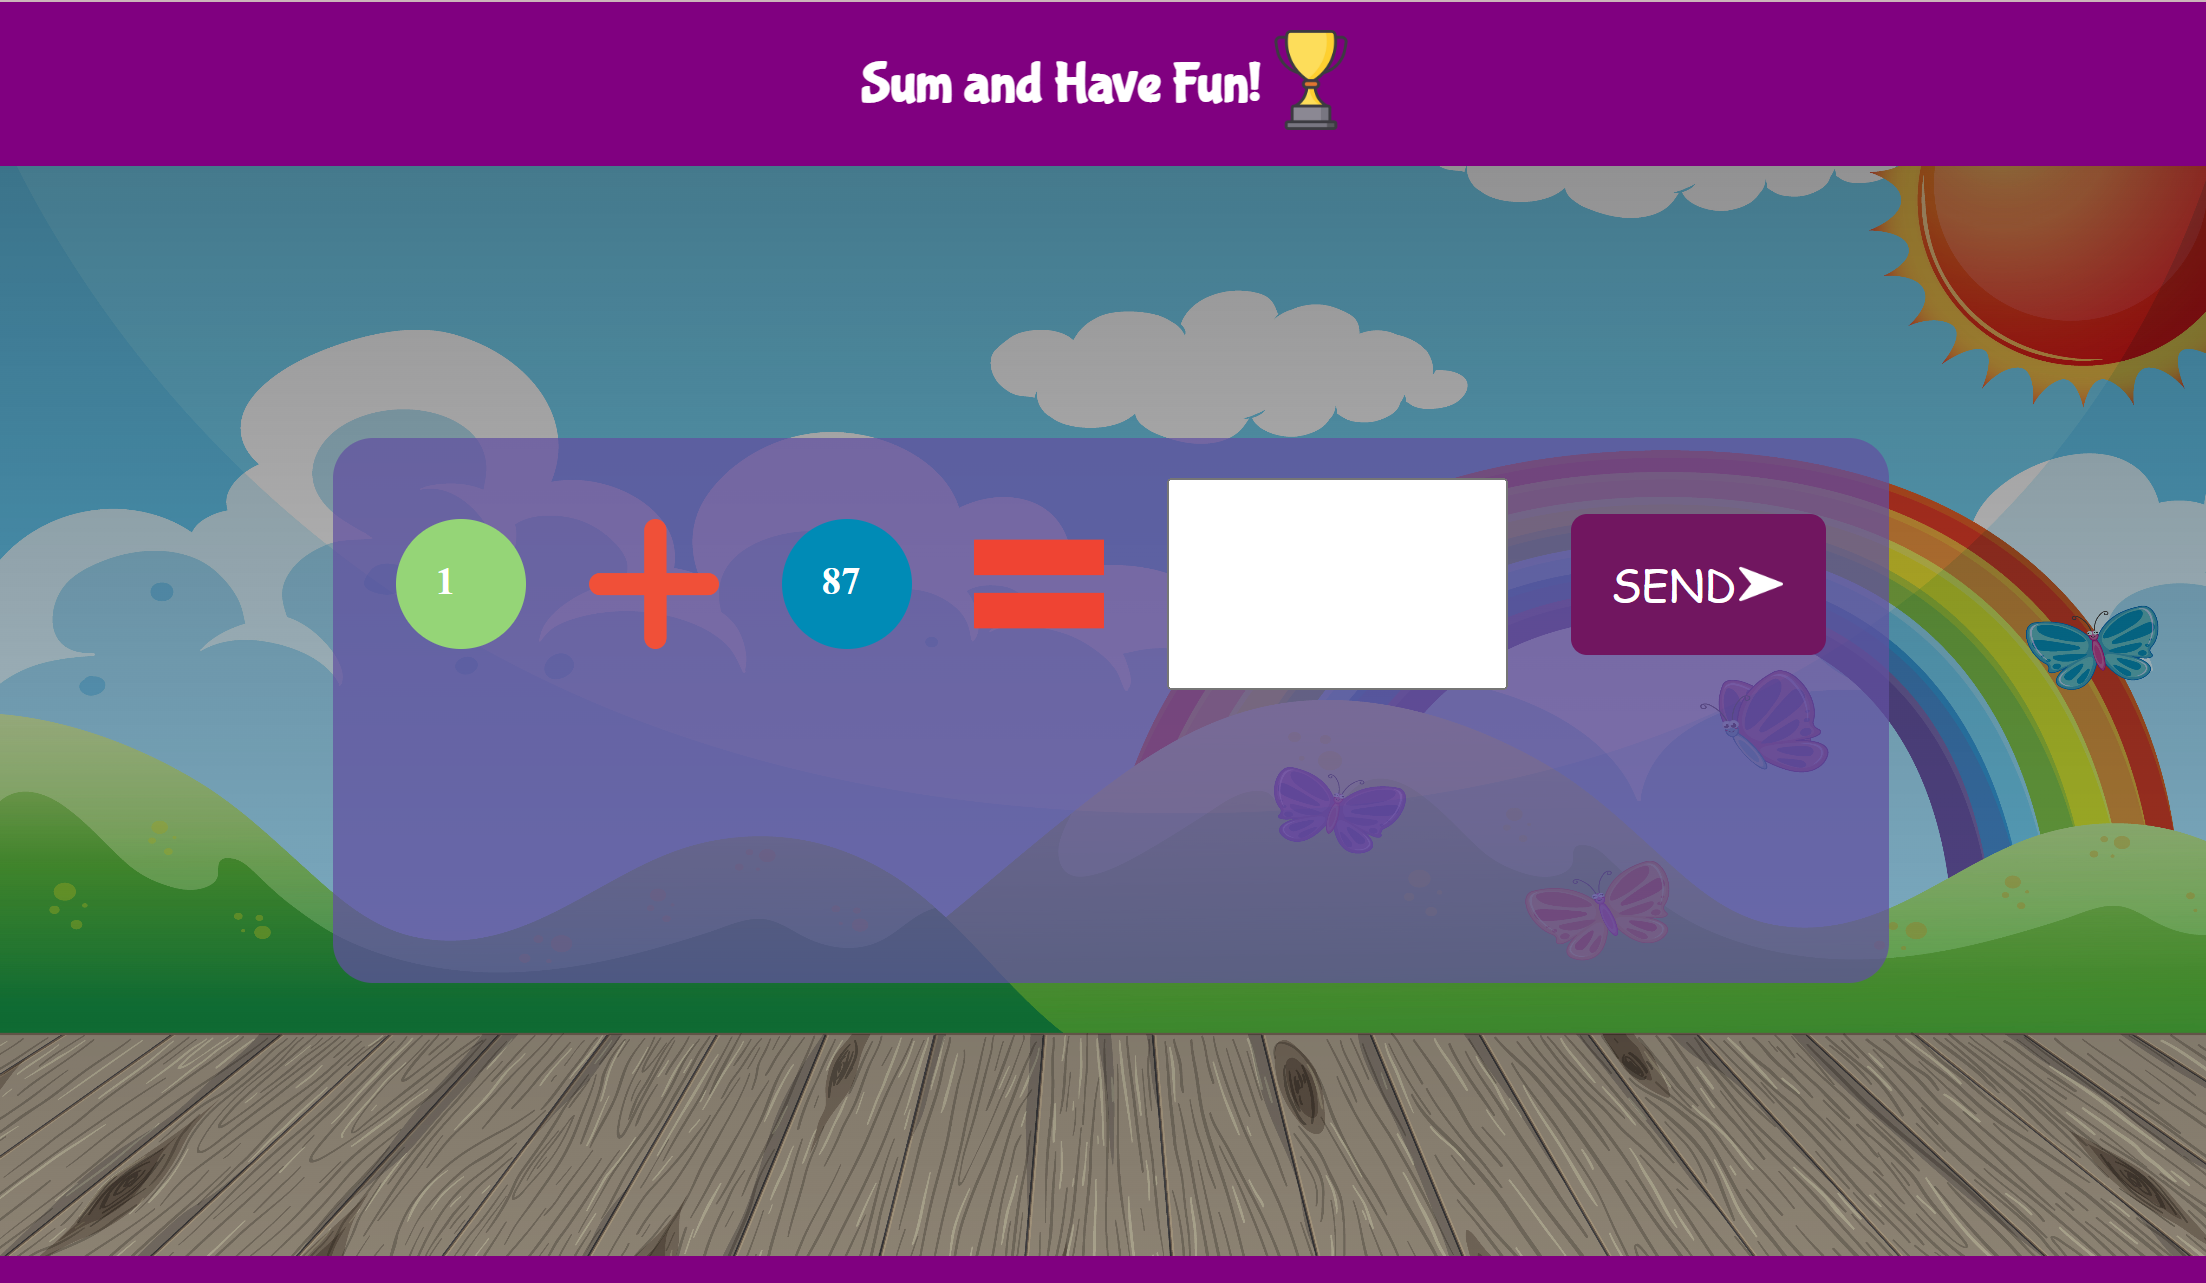
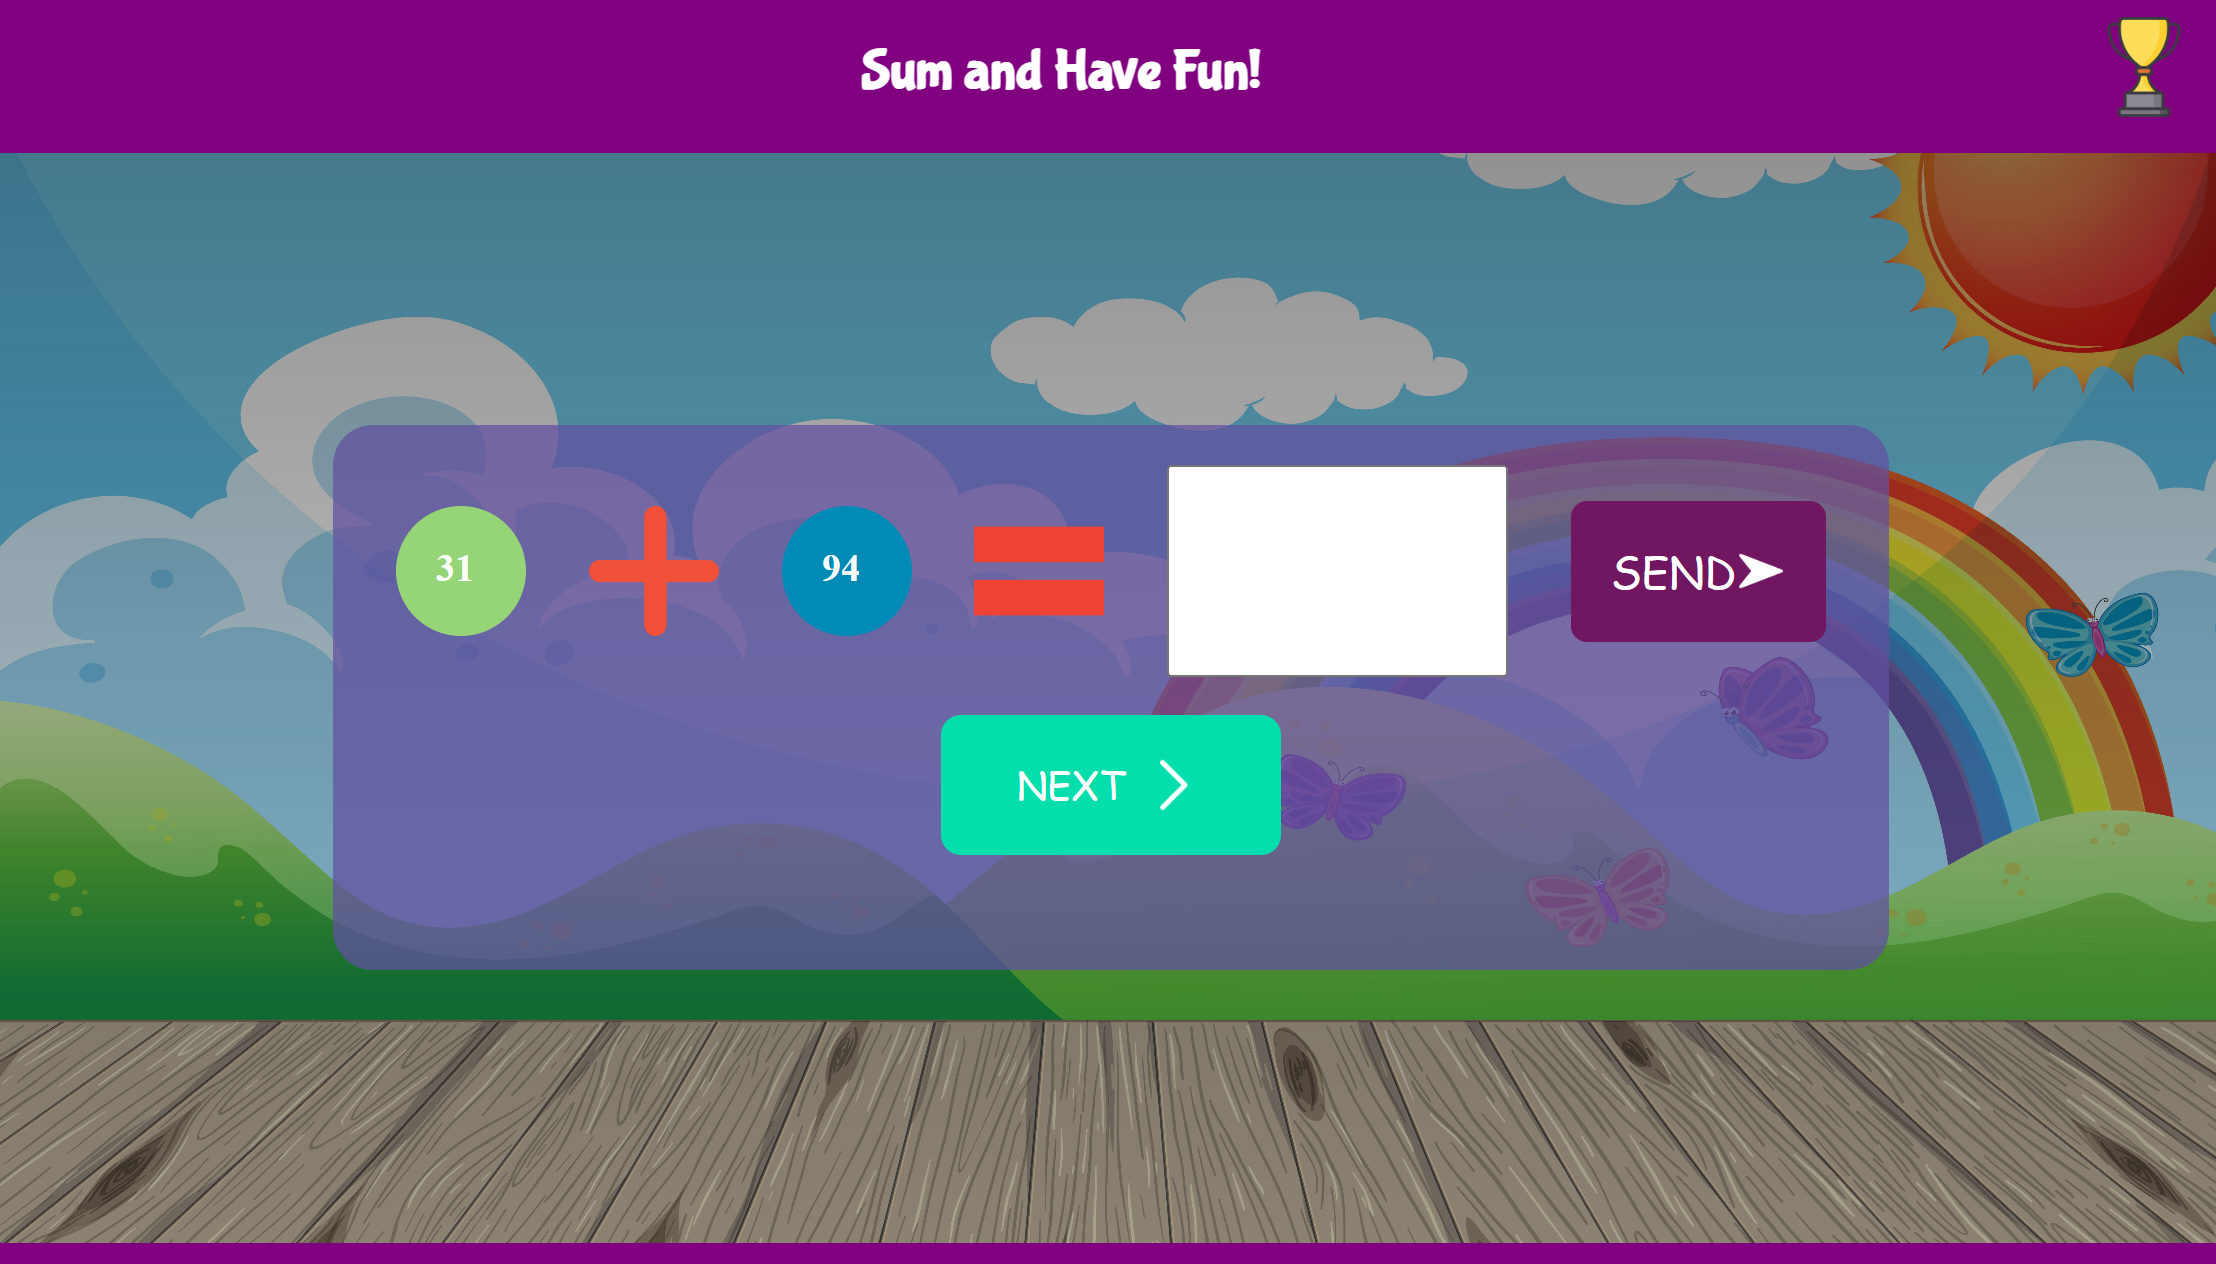
added functionality for going to next question

diff --git a/public/index.html b/public/index.html
@@ -1,22 +1,20 @@
 <!DOCTYPE html>
 <html lang="en">
-  <head>
-    <meta charset="utf-8" />
-    <link rel="icon" href="%PUBLIC_URL%/favicon.ico" />
-    <meta name="viewport" content="width=device-width, initial-scale=1" />
-    <meta name="theme-color" content="#000000" />
-    <meta
-      name="description"
-      content="Web site created using create-react-app"
-    />
-    <link href='https://fonts.googleapis.com/css?family=Bubblegum Sans' rel='stylesheet'>
-    <link rel="apple-touch-icon" href="%PUBLIC_URL%/logo192.png" />
- 
-    <title>Sum and Fun!</title>
-  </head>
-  <body>
-    <noscript>You need to enable JavaScript to run this app.</noscript>
-    <div id="root"></div>
 
-  </body>
+<head>
+  <meta charset="utf-8" />
+  <link rel="icon" href="%PUBLIC_URL%/favicon.png" />
+  <meta name="viewport" content="width=device-width, initial-scale=1" />
+  <meta name="theme-color" content="#000000" />
+  <meta name="description" content="Web site created using create-react-app" />
+  <link href="https://fonts.googleapis.com/css?family=Bubblegum Sans" rel="stylesheet" />
+
+  <title>Sum and Fun!</title>
+</head>
+
+<body>
+  <noscript>You need to enable JavaScript to run this app.</noscript>
+  <div id="root"></div>
+</body>
+
 </html>

diff --git a/src/components/form/Form.js b/src/components/form/Form.js
@@ -4,6 +4,7 @@ import "./form.css";
 import plus from "../../assets/images/plus.png";
 import equal from "../../assets/images/equal.png";
 import submit from "../../assets/images/submit.png";
+import next from "../../assets/images/next.png";
 const Form = () => {
   const [number1, setNumber1] = useState(Math.floor(Math.random() * 50));
   const [number2, setNumber2] = useState(Math.floor(Math.random() * 100));
@@ -41,6 +42,14 @@ const Form = () => {
       }
     }
   };
+
+  const restartGame = () => {
+    setNumber1(Math.floor(Math.random() * 50));
+    setNumber2(Math.floor(Math.random() * 100));
+    setCorrect("");
+    setAnswer("");
+    setFeedback("");
+  };
   return (
     <div className="form_outer_container">
       <section className={`form_container ${correct}`}>
@@ -57,6 +66,10 @@ const Form = () => {
           </button>
         </form>
         <h3>{feedback && feedback}</h3>
+        <button className="comic restartButton" onClick={restartGame}>
+          NEXT
+          <img width="30px" src={next} alt=" restart icon" />
+        </button>
       </section>
     </div>
   );

diff --git a/src/components/form/form.css b/src/components/form/form.css
@@ -2,7 +2,7 @@
   background-color: #6150a0ba;
   width: 70%;
   border-radius: 20px;
-  height: 50%;
+  padding: 30px;
 }
 
 .Correct {
@@ -82,4 +82,55 @@ form {
 
 .number2 {
   background-color: #008bb6;
+}
+
+.restartButton {
+  border: none;
+  padding: 20px;
+  border-radius: 10px;
+  margin: auto;
+  width: 170px;
+  background-color: #04dead;
+  display: flex;
+  color: white;
+  align-items: center;
+  cursor: pointer;
+  justify-content: center;
+  font-size: larger;
+}
+
+.restartButton:hover {
+  background-color: #4bccb0c3;
+}
+
+.restartButton img {
+  margin-left: 10px;
+}
+
+@media screen and (max-width: 768px) {
+  .form_outer_container {
+    display: flex;
+    justify-content: center;
+    background-position: 75%;
+  }
+
+  form {
+    display: flex;
+    flex-wrap: wrap;
+  }
+
+  .form_container {
+    width: 90%;
+    height: 100% !important;
+  }
+
+  .form_container input {
+    height: 40px;
+    margin-top: 10px;
+  }
+
+  .sendButton {
+    margin-top: 10px;
+    padding-bottom: 20px;
+  }
 }

diff --git a/src/components/landingPage/landing.css b/src/components/landingPage/landing.css
@@ -62,3 +62,9 @@
     min-height: 85vh;
   }
 }
+
+@media screen and (max-width: 768px) {
+  .landing_outer_container {
+    min-height: 85vh;
+  }
+}

diff --git a/planning.md b/planning.md
@@ -1,44 +1,59 @@
 
 # Sum and Have Fun!
 
+
+## Summary about components and Application organization
+<p>Form component: gets input from the user, makes the API call, changes CSS classes after comparing Api data and user-entered answer.</p>
+
+<p>App: organizes components and routes</p>
+
+<p>Header and Footer: Add style and make accessibility on the App better for screen readers. It also improves user experience by providing links for navigating between pages.</p>
+
+<p>Landing Page: Displays buttons for entering the game or viewing high scores. (Score is hard coded, for now, see enhancements section.) </p>
+
+### CSS 
+
+<p>I usually like using CSS modules on bigger applications. With this app, however, I am utilizing vanilla CSS: descriptive names for classes and IDs and keeping the files separated for each component. It is a lot easier to go through 30 lines of CSS to find a problem than go through 400 lines of code.</p>
+
+### Planning
 <ul> 
 
-<li>I started on cleaning up the app and deleting unecessary files.</li>
+<li>I started on cleaning up the app and deleting unnecessary files.</li>
 <br>
-<li>Second I reset my CSS to reduce browser inconsistencies (border, margin, font of size headings and etc).</li>
+<li>Second, I reset my CSS to reduce browser inconsistencies (border, margin, font of size headings and etc).</li>
 <br>
-<li>After that, utilizing my teacher knowledge on second grader students (their developmental stages and what they are able to do at this age). I then started thinking about what features this app needs to provide a great user experience. Next comes the knowledge on UX that I aquired trough courses, practice and what I do daily at work while building Investor Relations Websites.</li>
+<li>After that, utilizing my teacher's knowledge of second-grader students (their developmental stages and what they are able to do at this age). I then started thinking about what features this app needs to provide a great user experience. Next comes the knowledge on UX that I acquired through courses, practice, and what I do daily at work while building Investor Relations Websites.</li>
 
-<li>I know The app would need to be fun, colorful, and the main way of communicating with the user would have to be trougt icons and images. </li>
+<li>I know The app would need to be fun, and colorful, and the main way of communicating with the user would have to be through icons and images. </li>
 <br>
-<li>The next part will be the component tree and how to pass data between components. I will utilize a landing page that will have buttons for: entering the game or entering the score page that I will possibly build in the future. React Router will be utilized for switching between components. </li>
+<li>The next part will be the component tree and how to pass data between components. I will utilize a landing page that will have buttons for entering the game or entering the score page that I will possibly build in the future. React Router will be utilized for switching between components. </li>
 <br>
 
-<li> On the next step, I went ahead I checked the documentation for the Math Api, it seems fairly simple and fun to use. After reading their documentation, I realized that the parameters for URL (the one we will utilize for the API call) will be encoded, so after the = sign will come our first random number, then "%2B" represents this character "+" and then we will put our last number in the end of the URL. I plan on using template literals for making the API call, template literals make it a lot easier to insert variables into the URL.</li>
+<li> On the next step, I went ahead and checked the documentation for the Math API; it seems fairly simple and fun to use. After reading their documentation, I realized that the parameters for URL (the one we will utilize for the API call) will be encoded, so after the = sign will come our first random number, then "%2B" represents this character "+" and then we will put our last number at the end of the URL. I plan on using template literals for making the API call, template literals make it a lot easier to insert variables into the URL.</li>
 <br>
 
 
 ## Component Tree and logic
 
-<p>We will have the App component currently organized our routes and components: the HEADER and Footer components will always show on any component. The Landing page will be the first one to appear when the page first loads, then the user can choose if they want to view the high scores or if they want to play the game. </p>
+<p>We will have the App component currently organized in our routes and components: the HEADER and Footer components will always show on any component. The Landing page will be the first one to appear when the page first loads, then the user can choose if they want to view the high scores or if they want to play the game. </p>
 
-<p>The form component is the main component in this game, from that app we make the Api Call and give the user the feedback wether it is correct or not. </p>
+<p>The form component is the main component in this game; from that app, we make the API Call and give the user feedback on wether it is correct or not. </p>
 
 
 ## Form Component and Detailed logic
 
-<p>To manage state in this application I will use mainly Use state and Use effect hooks, I also utilized Axios to make the API call cleaner. </p>
+<p>To manage state in this application, I will use mainly Use state and Use effect hooks, I also utilized Axios to make the API call cleaner. </p>
 <ol>
-<li>For the random numbers that will be generated, and added, I will create two variables (number1 and number2) and utilize Math.Random (to generate random numbers) and Math.Floor (to round down number to the nearest integer). I will also put those two numbers inside of the useEffect Hook, and added them to the dependency array. This way, whenever Javascript generates the random numbers, useEffect will take care of the state and make sure it is not out of pace with the User  Interface.</li> <br>
+<li>For the random numbers that will be generated and added, I will create two variables (number1 and number2) and utilize Math. Random (to generate random numbers) and Math.Floor (to round down the number to the nearest integer). I will also put those two numbers inside of the use effect Hook and add them to the dependency array. This way, whenever Javascript generates the random numbers, useEffect will take care of the state and make sure it is not out of pace with the User  Interface.</li> <br>
 
-<li>Inside of the same useEffect hook, I will the Api call with axios and use the Usestate hook to keep track of the state of the data coming from the Api.</li>
+<li>Inside of the same use effect hook, I will the API call with Axios and use the Use state hook to keep track of the state of the data coming from the API.</li>
 <br>
-<li>To Track the state of the answer entered by the user, I will use useState hook again and put the input type as "number", this way if the user attempts to enter text in the input, it will not work. The function handle Change will track the change in the input and set the value of the variable "answer" to whatever the user entered. </li>
+<li>To Track the state of the answer entered by the user, I will use the useState hook again and put the input type as "number", this way, if the user attempts to enter text in the input, it will not work. The function handle Change will track the change in the input and set the value of the variable "answer" to whatever the user entered. </li>
 
 <br>
-<li>I will also create a function that submits the form and calls the "check answer function". The check answer function will compare the data coming from the Api with the answer provided by the user. If they match, it will provide a feedback for the user and also set the background color to red/green, depending wether the answer is correct or not. </li>
+<li>I will also create a function that submits the form and calls the "check answer function." The check answer function will compare the data coming from the API with the answer provided by the user. If they match, it will provide feedback for the user and also set the background color to red/green, depending on whether the answer is correct or not. </li>
 
-
+<li>Lastly, I will create a function to enable users to play the game again. That will also restart the feedback message and classes for right/wrong answer</li>
 </ul>
 
 
@@ -46,12 +61,11 @@
 
 
 ### High Scores
-<p>
-I would love to implement the possibility for the user to have their score saved to local storage. This score would be displayed on the top right of the page and it would just be 0 if user had no score/had never played that game before. To create that functionality, I would start by: <ul>
+I would love to implement the possibility for the user to have their score saved to local storage. This score would be displayed on the top right of the page and just be 0 if the user had no score/had never played that game before. To create that functionality, I would start by <ul>
 <li>Creating a state for the score, which would start at 0</li>
 <li>Creating a state for an array to be saved to local storage</li>
 <li>Every time the user gets the question correctly, the score would increase by 5</li>
-<li>those numbers would be pushed to that initial array, that would also have to be converted to a string, since local storage only allows strings</li>
+<li>those numbers would be pushed to that initial array, which would also have to be converted to a string since local storage only allows strings</li>
 <li>Use the use Effect hook to get the score from local storage and display it on the page.</li>
 </ul>
 </p>
